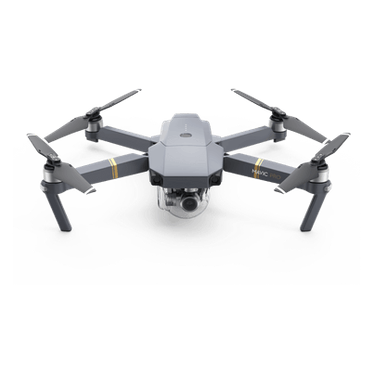
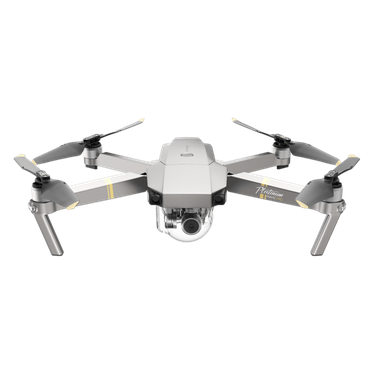
Drohne einrichten: große Modell-Kacheln (Bild + Name, 4 pro Reihe); neues Bild Mavic Pro / Pro Platinum
Claude-Session: https://claude.ai/code/session_01SvUTgoCXzC4iw1mHuj3Kxk

Changed region(s): [[0.0294, 0.2353, 0.9706, 0.7059], [0.3235, 0.2353, 0.3824, 0.2647]]

diff --git a/client/screens/DroneSetupScreen.tsx b/client/screens/DroneSetupScreen.tsx
@@ -395,31 +395,29 @@ export default function DroneSetupScreen() {
     setLimits((prev) => ({ ...prev, [key]: numValue }));
   };
 
+  // Modell-Kacheln: großes Bild + Name (Details erst im nächsten Schritt)
   const renderPresetItem = ({ item }: { item: DronePreset }) => {
     const key = `${item.manufacturer}-${item.model}`;
     const opening = openingKey === key;
     return (
-      <View style={presetColumns > 1 ? styles.presetCell : undefined}>
+      <View style={[styles.modelCell, { maxWidth: presetColumns > 1 ? "25%" : "50%" }]}>
         <Card
-          style={[styles.presetCard, opening && { borderWidth: 1, borderColor: theme.primary }]}
+          style={[styles.modelCard, opening && { borderWidth: 1, borderColor: theme.primary }]}
           onPress={() => selectPreset(item)}
+          testID={`preset-${key}`}
         >
-          <View style={styles.presetImage}>
-            <DroneImage manufacturer={item.manufacturer} model={item.model} size={40} iconColor={theme.textTertiary} iconSize={20} />
+          <View style={styles.modelImage}>
+            <DroneImage manufacturer={item.manufacturer} model={item.model} size={104} iconColor={theme.textTertiary} iconSize={40} />
+            {opening ? (
+              <View style={styles.modelSpinner}>
+                <ActivityIndicator size="small" color={theme.primary} />
+              </View>
+            ) : null}
           </View>
-          <View style={styles.presetInfo}>
-            <ThemedText style={styles.presetName} numberOfLines={1}>
-              {item.manufacturer} {item.model}
-            </ThemedText>
-            <ThemedText style={[styles.presetDetails, { color: theme.textSecondary }]} numberOfLines={1}>
-              {DRONE_CLASS_INFO[item.classMark].label} | {item.mtomGrams}g | Wind: {item.maxWindMs} m/s
-            </ThemedText>
-          </View>
-          {opening ? (
-            <ActivityIndicator size="small" color={theme.primary} />
-          ) : (
-            <Feather name="chevron-right" size={20} color={theme.textTertiary} />
-          )}
+          <ThemedText style={styles.modelName} numberOfLines={2}>
+            {/* bei Suche über alle Hersteller den Hersteller mit anzeigen */}
+            {searchQuery.trim() || !selectedMfr ? `${item.manufacturer} ${item.model}` : item.model}
+          </ThemedText>
         </Card>
       </View>
     );
@@ -487,9 +485,9 @@ export default function DroneSetupScreen() {
         </Pressable>
       ) : null}
       <FlatList
-        key={`cols-${presetColumns}`}
+        key={`models-${presetColumns}`}
         data={searchQuery.trim() || !selectedMfr ? filteredPresets : sortedPresets.filter((p) => p.manufacturer === selectedMfr)}
-        numColumns={presetColumns}
+        numColumns={presetColumns > 1 ? 4 : 2}
         keyExtractor={(item) => `${item.manufacturer}-${item.model}`}
         renderItem={renderPresetItem}
         style={styles.presetList}
@@ -1436,6 +1434,11 @@ const styles = StyleSheet.create({
     flex: 1,
   },
   mfrCell: { flex: 1, padding: Spacing.xs / 2 },
+  modelCell: { flex: 1, padding: Spacing.xs / 2 },
+  modelCard: { alignItems: "center", paddingVertical: Spacing.sm, paddingHorizontal: Spacing.sm, gap: 4 },
+  modelImage: { width: 104, height: 104, alignItems: "center", justifyContent: "center" },
+  modelSpinner: { position: "absolute", top: 0, left: 0, right: 0, bottom: 0, alignItems: "center", justifyContent: "center" },
+  modelName: { fontSize: 15, fontWeight: "700", textAlign: "center", lineHeight: 19 },
   mfrCard: { alignItems: "center", justifyContent: "center", gap: Spacing.xs, paddingVertical: Spacing.md, paddingHorizontal: Spacing.sm },
   mfrBack: { flexDirection: "row", alignItems: "center", gap: 2, marginBottom: Spacing.sm },
   presetCell: { flex: 1 / 2, paddingHorizontal: Spacing.xs / 2 },
